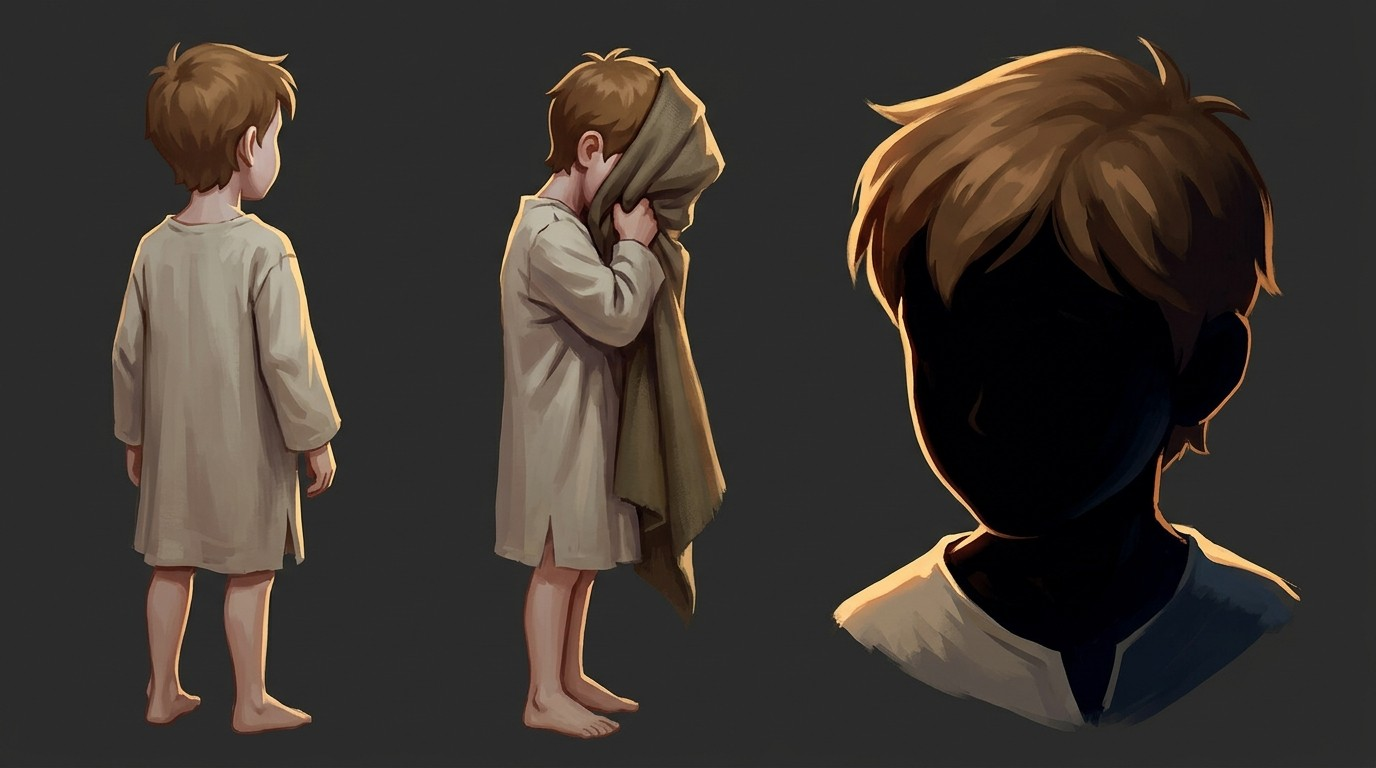
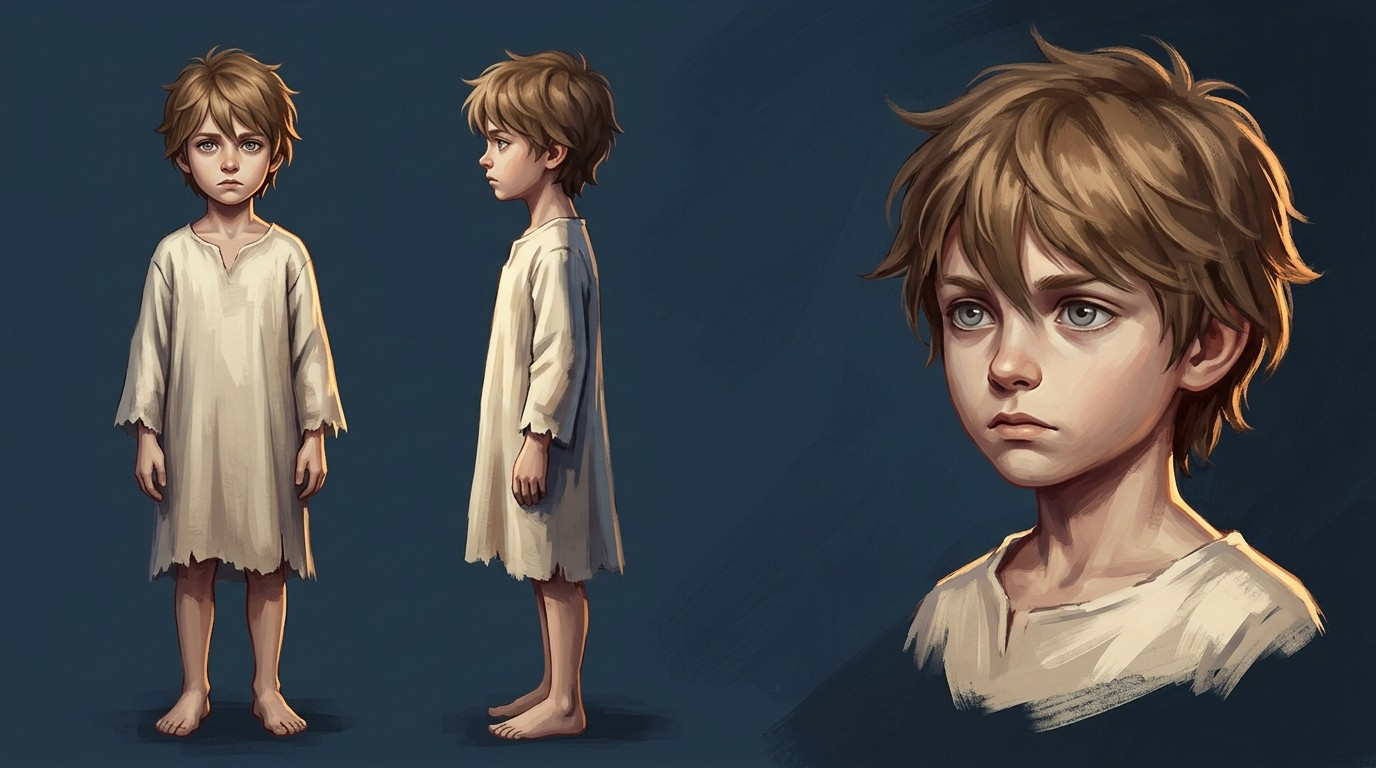
Chronicle Tyr's price: young Arthas gets a face; batch resubmitted
Claude-Session: https://claude.ai/code/session_01ATYH57jnXnDsQfoAHnRMyx

diff --git a/chronicle/painted/make/14t.py b/chronicle/painted/make/14t.py
@@ -22,7 +22,7 @@ TYR=("a colossal stone statue of Tyr, the one-handed god of justice, towering ov
      "a blindfold carved across his eyes, his right arm ending at the wrist with no right hand, his left hand raising a great stone longsword, "
      "a set of stone scales hanging from the sword's crossguard, weathered pale stone")
 BOYS=("two small boys of five and six lying side by side on wool blankets on the cold stone floor, pale as chalk, drenched in sweat, "
-      "black unnatural veins creeping up their necks; the boy with short dark hair is Cedric; Arthas lies turned away with his face hidden under the blanket and his hair, his face never visible")
+      "black unnatural veins creeping up their necks; the boy with short dark hair is Cedric, the slightly older boy with light brown hair is Arthas")
 FWD='a flash-forward vision in a cold blue-grey palette, '
 COLD={'grade':'cold'}
 S_=[
@@ -52,7 +52,7 @@ S_=[
 ('s22',L(7),'fade',[BA,BC],[],SANCT+"HERO: "+BOYS+", candlelight, a vast dark space around them"+ONLY,{'flicker':0.3},'heart'),
 ('s23',L(7,4.3),'cut',[BC],[],SANCT+"close-up of little Cedric (short dark hair) feverish and pale, sweat on his brow, eyes half closed",{'flicker':0.2},''),
 ('s24',L(8),'cut',[],[],SANCT+"extreme close-up of black unnatural poison veins creeping up a small child's neck and arm, pulsing, the face out of frame",{'flicker':0.2},''),
-('s25',L(8,5.0),'cut',[BA],[],SANCT+"little Arthas curled under a wool blanket, his face hidden, only a small pale hand gripping the blanket, black veins on the wrist",{'flicker':0.2},''),
+('s25',L(8,5.0),'cut',[BA],[],SANCT+"close-up of little Arthas (light brown hair) curled under a wool blanket, feverish and pale, eyes squeezed shut, black veins on his neck and wrist",{'flicker':0.2},''),
 ('s26',L(8,8.6),'cut',[],[],SANCT+"a healer's bag abandoned on the stone, potion bottles shattered, cold candles"+NP,{},''),
 ('s27',L(9),'cut',[BA,BC],[],SANCT+"wide: the two small boys tiny on the floor, and the dark looming shape of "+TYR+" above them in shadow"+ONLY,COLD,''),
 ('s28',L(10),'fade',[YV],[],SANCT+"HERO: young Valerys (black hair, about forty) kneeling on the cold stone before the statue, seen from behind, his armour thrown aside around him",{'flicker':0.2},''),
@@ -92,8 +92,8 @@ S_=[
 ('s59',L(32),'cut',[YV],[],SANCT+"young Valerys turning away from the empty chair with the woman's cloak, rain on the glass behind",{'flicker':0.2},''),
 ('s60',L(33),'fade',[BC],['dust'],FWD+"HERO: little Cedric (short dark hair, a small bundle) led by two hooded monks through rain toward the gate of a mountain monastery",COLD,''),
 ('s61',L(33,4.8),'cut',[BC],['dust'],FWD+"little Cedric looking back over his shoulder in the rain, alone",COLD,''),
-('s62',L(34),'fade',[BA,YV],[],FWD+"a boy of about eight seen from behind (Arthas, his face never visible) reaching up toward his father, who turns away in his white and crimson robes"+ONLY,COLD,''),
-('s63',L(35),'cut',[YV,BA],[],FWD+"Valerys alone at a tall cathedral window, cold and distant, a small boy watching him from a doorway behind, seen from behind"+ONLY,COLD,''),
+('s62',L(34),'fade',[BA,YV],[],FWD+"young Arthas, a boy of about eight with light brown hair, reaching up toward his father with hurt in his eyes, his father, who turns away in his white and crimson robes"+ONLY,COLD,''),
+('s63',L(35),'cut',[YV,BA],[],FWD+"Valerys alone at a tall cathedral window, cold and distant, young Arthas (light brown hair) watching him sadly from a doorway behind"+ONLY,COLD,''),
 ('s64',L(35,6.4),'cut',[],[],FWD+"the great gates of Caer Callidyr swinging shut"+NP,COLD,'gate'),
 ('s65',L(36),'cut',[YV],[],SANCT+"young Valerys rising to his feet, steady, resolved",{'flicker':0.2},''),
 ('s66',L(37),'cut',[YV],[],SANCT+"HERO: young Valerys laying his longsword at the foot of the stone altar beneath the statue",{'flicker':0.2},'sword'),
@@ -132,8 +132,7 @@ cast[DO]=L13['cast']['dolkan'].replace('; usually hunched, grinning and mutterin
 cast[YV]=("Valerys twenty years younger, about forty: the same face as in his reference (hard pale grey eyes, strong jaw, short beard) "
  "but jet-black close-cropped hair and a short black beard, no grey; a High Inquisitor of Tyr: white and crimson robes over plate armour, "
  "a gold sun emblem; strong, proud, grief-stricken")
-cast[BA]=("Arthas as a small boy of six: slight, pale, light brown hair; HIS FACE IS NEVER SHOWN: always turned away, hidden under a blanket, "
- "in shadow or seen from behind; a plain linen nightshirt")
+cast[BA]="Arthas as a small boy of six: slight and pale, tousled light brown hair, serious pale grey eyes like his father's, a solemn little face, a plain linen nightshirt"
 cast[BC]="Cedric as a small boy of five: short dark hair (not yet shaved), pale grey eyes, a thin pale face, a plain linen nightshirt"
 board={"id":"tyrs-price","live":True,"secret":True,"cover":"s42","style":L14['style'],"cast":cast,"shots":shots}
 out=json.dumps({k:v for k,v in board.items() if k!='shots'},ensure_ascii=False,indent=2)[:-2]+',\n  "shots": [\n'+',\n'.join('    '+json.dumps(s,ensure_ascii=False) for s in shots)+'\n  ]\n}\n'
